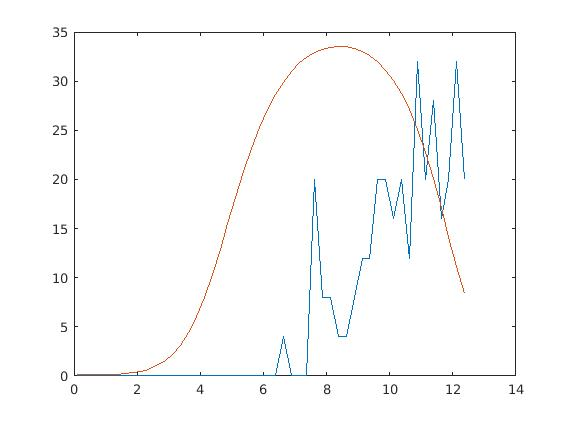
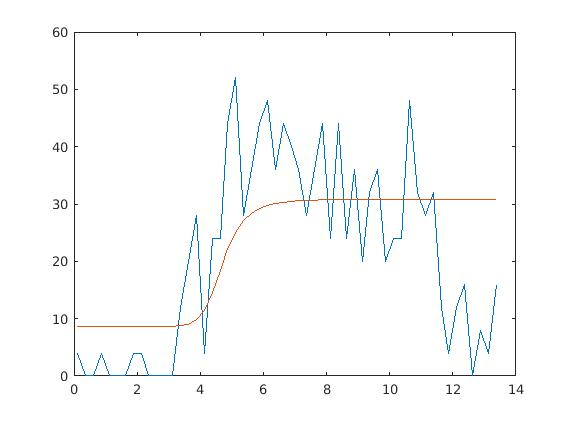
Added resting rate to model.

diff --git a/main.m b/main.m
@@ -1,30 +1,25 @@
 
 % COMMENTS
-% How would the optimum values be different if I optimised the linearity first
-% then the nonlinearity?
-% Maybe I shouldn't estimate the ramp with a smooth polynomial? Maybe the
-% small changes affect the firing rate?
-% Should possibly ignore trials 3 and 5, 6?
-% Min found : 106.2683 (1 2 4 5 6 7 8 9)
-% Swap A trial 5 for ramp at very beginning of recording
-% Could add resting firing rate to model
+% Min found : 124.49
+% Resting rate calculated as an average of spontaneous rates
   
-[spikes_A,temps_A] = getData('/home/daniel/Encoding Thermal Stimuli/A fibre ramp positions.xlsx');
-[spikes_C,temps_C] = getData('/home/daniel/Encoding Thermal Stimuli/C fibre ramp positions.xlsx');
+[spikes_A,temps_A,resting_A] = getData('/home/daniel/Encoding Thermal Stimuli/A fibre ramp positions.xlsx');
+[spikes_C,temps_C,resting_C] = getData('/home/daniel/Encoding Thermal Stimuli/C fibre ramp positions.xlsx');
 
 disp('Data Loaded');
 
-% t = constructTraining(spikes_A([1 2 4 5 6 7 8 9]),temps_A([1 2 4 5 6 7 8 9]),0.25);
-% y = t(:,3);
-% X = t(:,1:2);
+% t = constructTraining(spikes_C,temps_C,resting_C,0.25);
+% y = t(:,4);
+% X = t(:,2:3);
+% r0 = t(:,1);
 % 
-% %theta - r0, a, b, x0, L, k
-% opt_theta = [0;0;0;0;0;0];
+% %theta - a, b, x0, L, k
+% opt_theta = [0;0;0;0;0];
 % opt_cost = Inf;
 % 
-% for i = 1:50
-%     initial = [0,-100 + rand*200,-100 + rand*200,-2000 + rand*4000, rand*100,-100 + rand*200]';
-%     [theta,cost] = fminsearch(@(t)(costFunction(t,X,y)),initial,optimset('MaxFunEvals',5000,'MaxIter',5000));
+% for i = 1:100
+%     initial = [-100 + rand*200,-100 + rand*200,-200 + rand*400, rand*100,-100 + rand*200]';
+%     [theta,cost] = fminsearch(@(t)(costFunction(t,X,y,r0)),initial,optimset('MaxFunEvals',5000,'MaxIter',5000));
 % 
 %     if(cost < opt_cost)
 %         opt_cost = cost;

diff --git a/testModel.m b/testModel.m
@@ -1,8 +1,8 @@
-function testModel(theta,spikes,temp)
+function testModel(theta,spikes,temp,resting)
 
-    [p,dp,~] = getPoly(temp,3);
+    [p,dp,~] = getPoly(temp,5);
     [rate,tvec] = getRate(spikes,0.25);
-    linear = theta(2)*polyval(p,tvec) + theta(3)*polyval(dp,tvec);
+    linear = theta(1)*polyval(p,tvec) + theta(2)*polyval(dp,tvec);
     
 %     figure()
 %     plot(tvec,linear);
@@ -10,14 +10,14 @@ function testModel(theta,spikes,temp)
 %     plot(tvec,rate);
 %     title('Linearity');
 %     hold off
+%     
+%     figure()
+%     plot([-500:500],sigmoid([-500:500],theta(3),theta(4),theta(5)));
+%     title('Non-linearity');
+%     
     
-    figure()
-    plot([-500:500],sigmoid([-500:500],theta(4),theta(5),theta(6)));
-    title('Non-linearity');
-    
-    
-    predict = theta(1) + sigmoid(linear,theta(4),theta(5),theta(6));
-    spikeArray{1} = spikes;
+    predict = resting + sigmoid(linear,theta(3),theta(4),theta(5));
+ 
     figure()
     plot(tvec,rate);
     hold on

diff --git a/getData.m b/getData.m
@@ -1,17 +1,17 @@
-function [spikes,temps] = getData(fileName)
+function [spikes,temps,resting] = getData(fileName)
 
     [num,txt] = xlsread(fileName);
-    numFiles = size(num);
-    numFiles = numFiles(1);
+    numFiles = size(num,1);
     k = 1;
 
     for i = 1:numFiles
         [fileData,raw_spikes,raw_temp] = parseFile(num,txt,i);
-        rampNum = fileData(2);
+        rampNum = fileData(3);
+        resting_rate = fileData(2);
         
         for j = 1:2:rampNum*2
-            ramp_start = fileData(2+j);
-            ramp_end = fileData(2+j+1);
+            ramp_start = fileData(3+j);
+            ramp_end = fileData(3+j+1);
             
             upTemp = interp(raw_temp,100);
             
@@ -20,6 +20,7 @@ function [spikes,temps] = getData(fileName)
             
             temps{k} = cropTemp;
             spikes{k} = cropSpikes;
+            resting{k} = resting_rate;
             k = k + 1;
         end
     end

diff --git a/costFunction.m b/costFunction.m
@@ -1,17 +1,16 @@
-function J = costFunction(theta,X,y)
+function J = costFunction(theta,X,y,r0)
 
     m = length(y);
     J = 0;
     cost = 0;
-    k = theta(6);
-    a = theta(2);
-    b = theta(3);
-    x0 = theta(4);
-    L = theta(5);
-    r0 = theta(1);
+    k = theta(5);
+    a = theta(1);
+    b = theta(2);
+    x0 = theta(3);
+    L = theta(4);
     
     
-    linear = X*theta(2:3);
+    linear = X(:,1:2)*theta(1:2);
     nonLinear = sigmoid(linear,x0,L,k);
     r = r0 + nonLinear;
     cost =(r-y);

diff --git a/calcRestingRate.m b/calcRestingRate.m
@@ -1,0 +1,11 @@
+function rate = calcRestingRate(rest_start,rest_end,raw_spikes,times)
+
+    dt = 5*10^-5;
+    spikes = zeros(size(raw_spikes));
+    spikes(int64(times/dt)) = 1;
+    numSpikes = sum(spikes(rest_start*100:rest_end*100));
+    secs = (rest_end - rest_start)*5*10^-3;
+    rate = numSpikes/secs;
+    
+
+end
